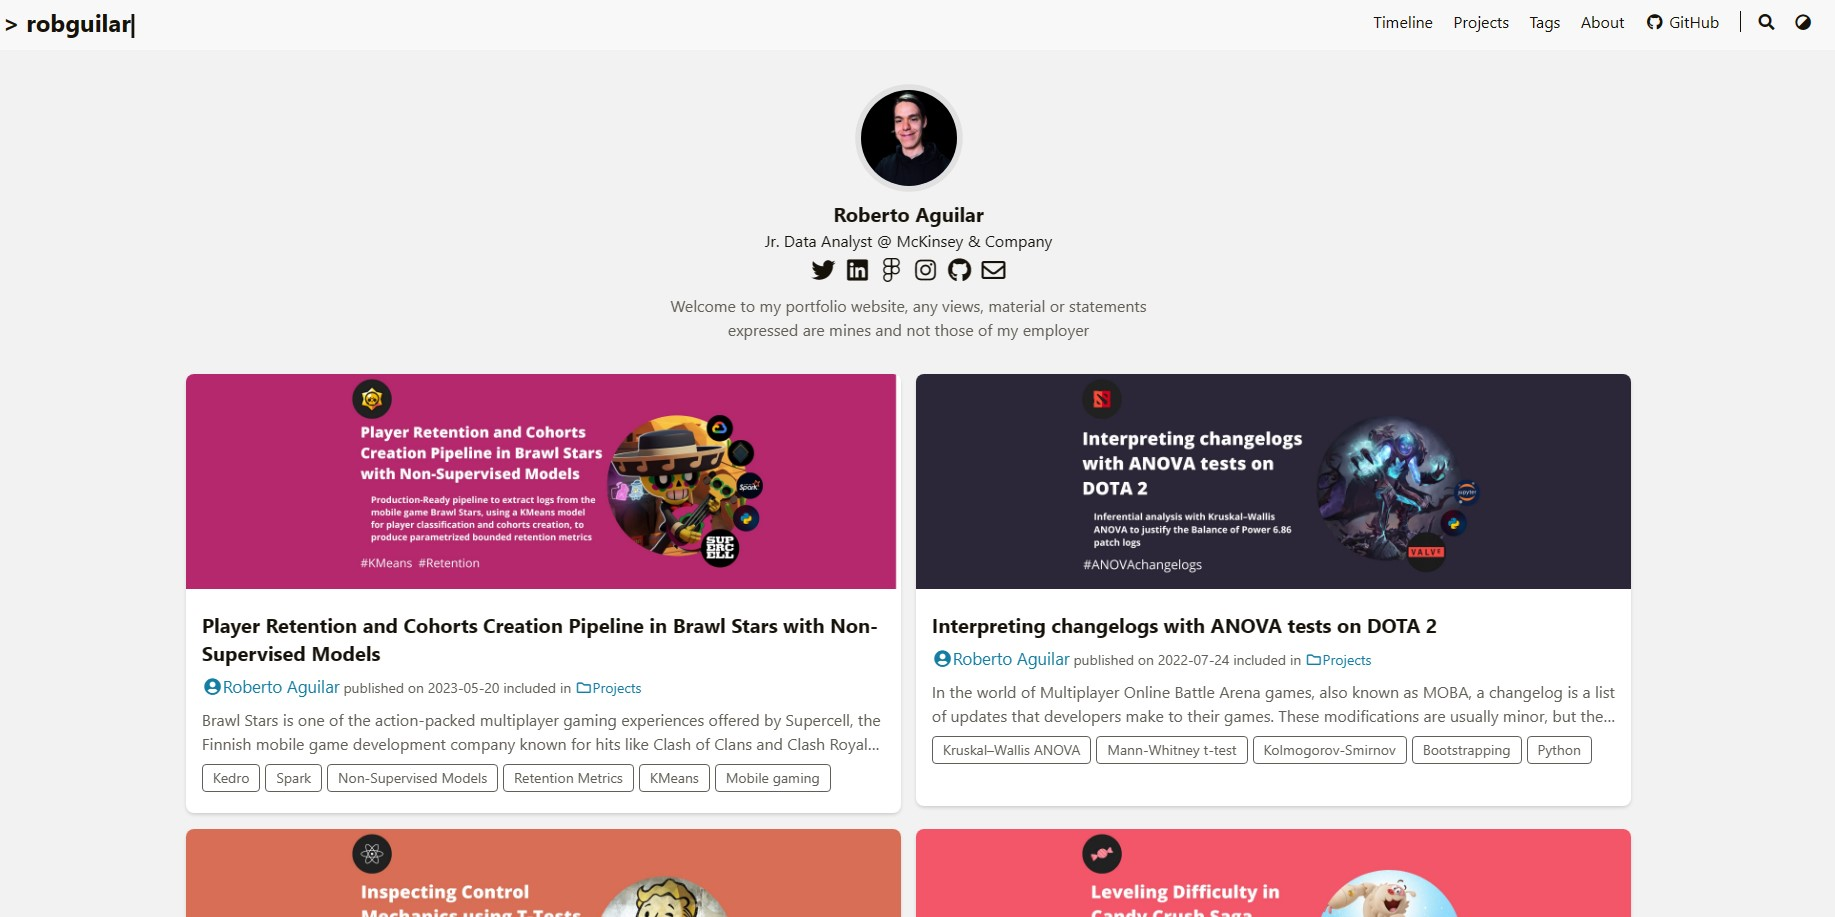
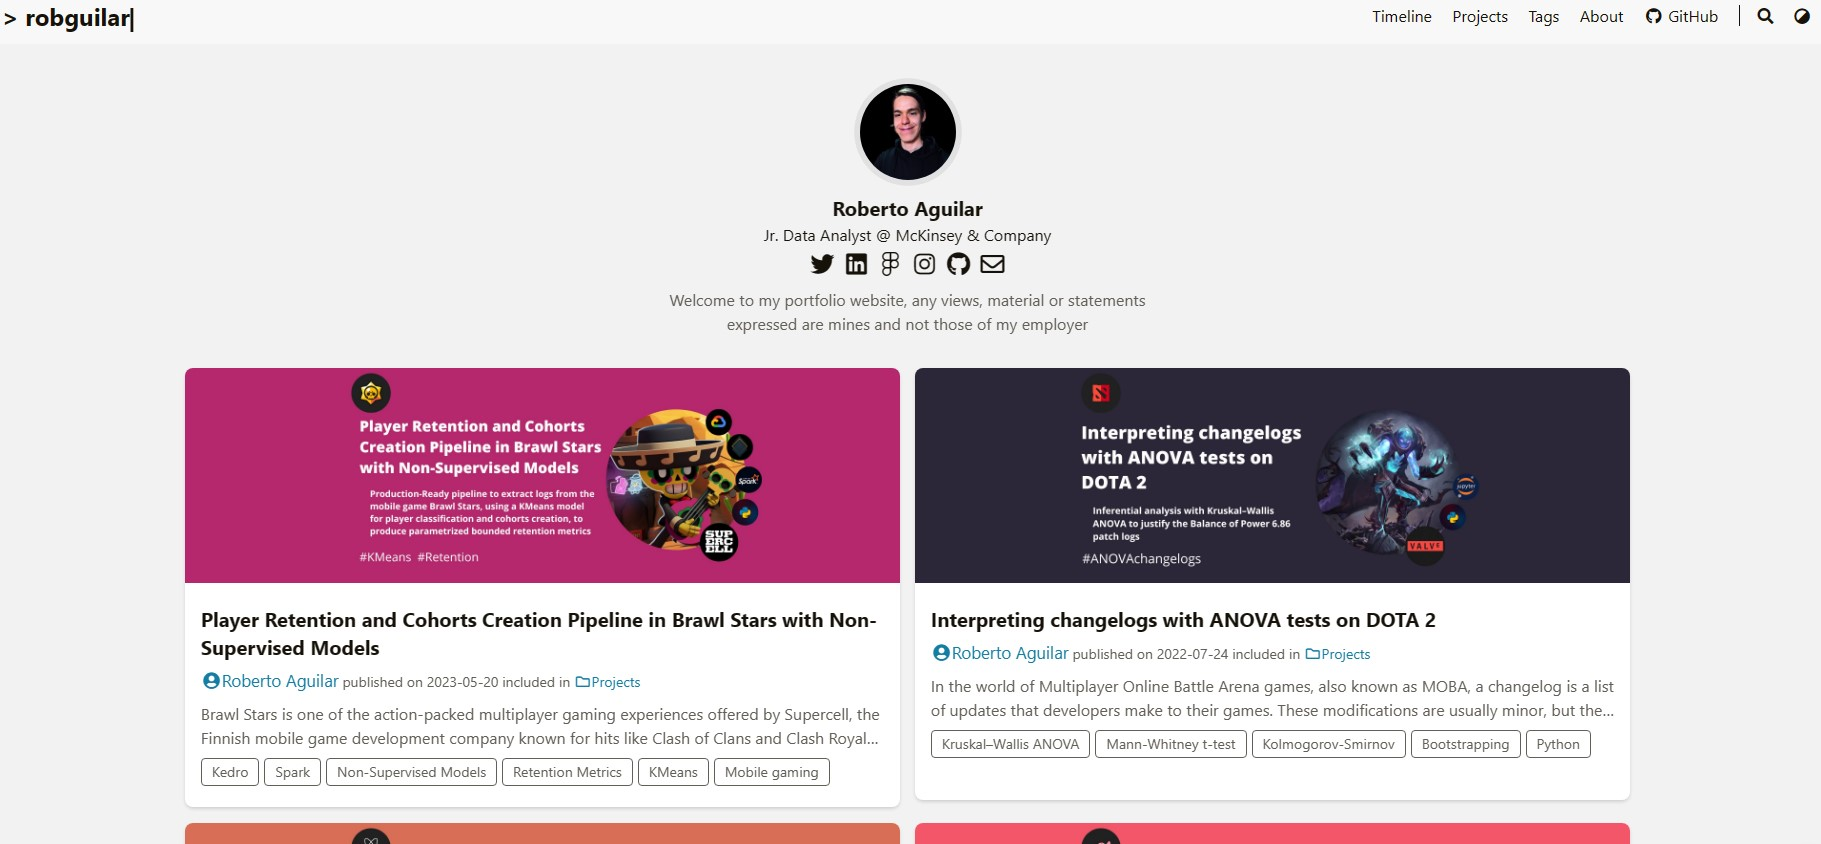
Thumbnails updated 2.0

Changed region(s): [[0.0923, 0.0924, 0.9226, 1.0], [0.7381, 0.0, 1.0, 0.0308], [0.0, 0.0, 0.0615, 0.0616]]

diff --git a/public/index.html b/public/index.html
@@ -26,8 +26,8 @@
         "url": "https:\/\/robguilar.com\/","inLanguage": "en","description": "Welcome to Roberto's portfolio website, through this portal you will be able to see his most recent content \u0026 projects published","image": {
                 "@type": "ImageObject",
                 "url": "https:\/\/robguilar.com\/images\/thumbnail.jpg",
-                "width":  1835 ,
-                "height":  917 
+                "width":  1821 ,
+                "height":  844 
             },"thumbnailUrl": "https:\/\/robguilar.com\/images\/thumbnail.jpg","license": "This work is developed and posted only under Roberto\u0027s property","name": "Roberto Aguilar"
     }
     </script></head><body data-header-desktop="auto" data-header-mobile="auto"><script>(window.localStorage && localStorage.getItem('theme') ? localStorage.getItem('theme') === 'dark' : ('light' === 'auto' ? window.matchMedia('(prefers-color-scheme: dark)').matches : 'light' === 'dark')) && document.body.setAttribute('theme', 'dark');</script>

diff --git a/public/about/index.html b/public/about/index.html
@@ -32,8 +32,8 @@
         },"image": [{
                             "@type": "ImageObject",
                             "url": "https:\/\/robguilar.com\/images\/thumbnail.jpg",
-                            "width":  1835 ,
-                            "height":  917 
+                            "width":  1821 ,
+                            "height":  844 
                         }],"genre": "page","wordcount":  1082 ,
         "url": "https:\/\/robguilar.com\/about\/","datePublished": "2021-08-02T11:04:49+08:00","dateModified": "2021-08-02T11:04:49+08:00","license": "This work is developed and posted only under Roberto's property","publisher": {
             "@type": "Organization",
